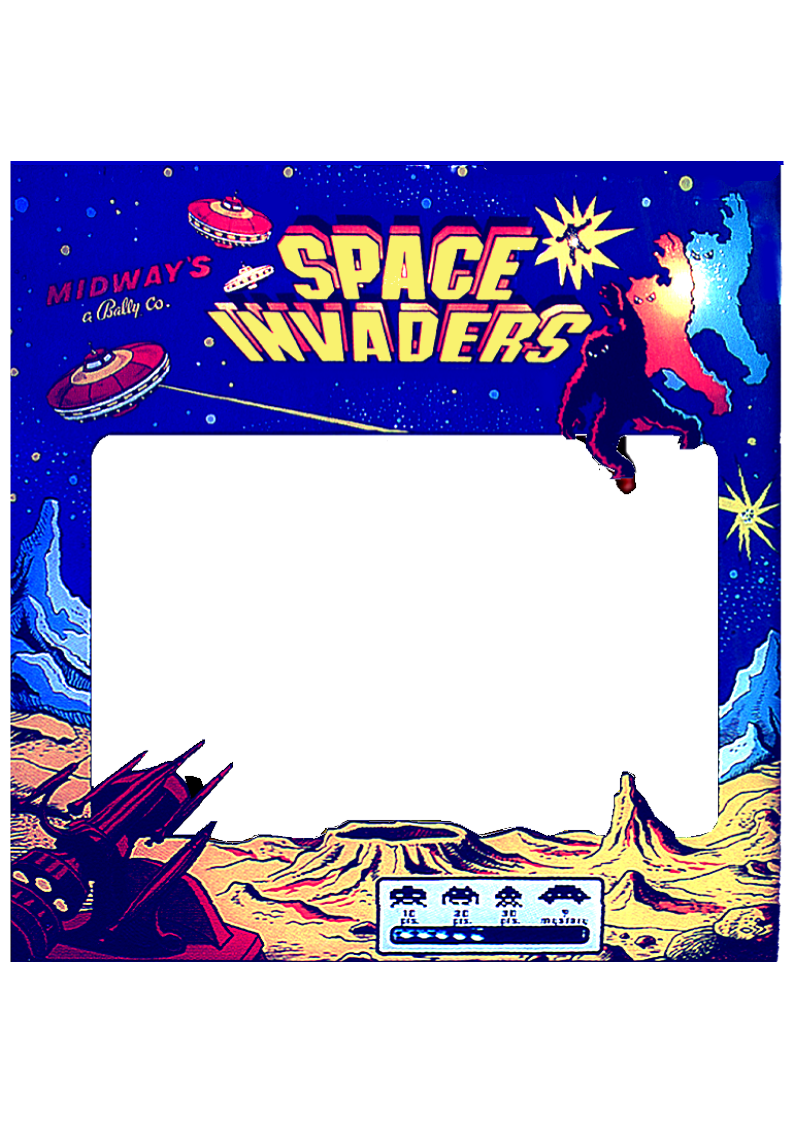
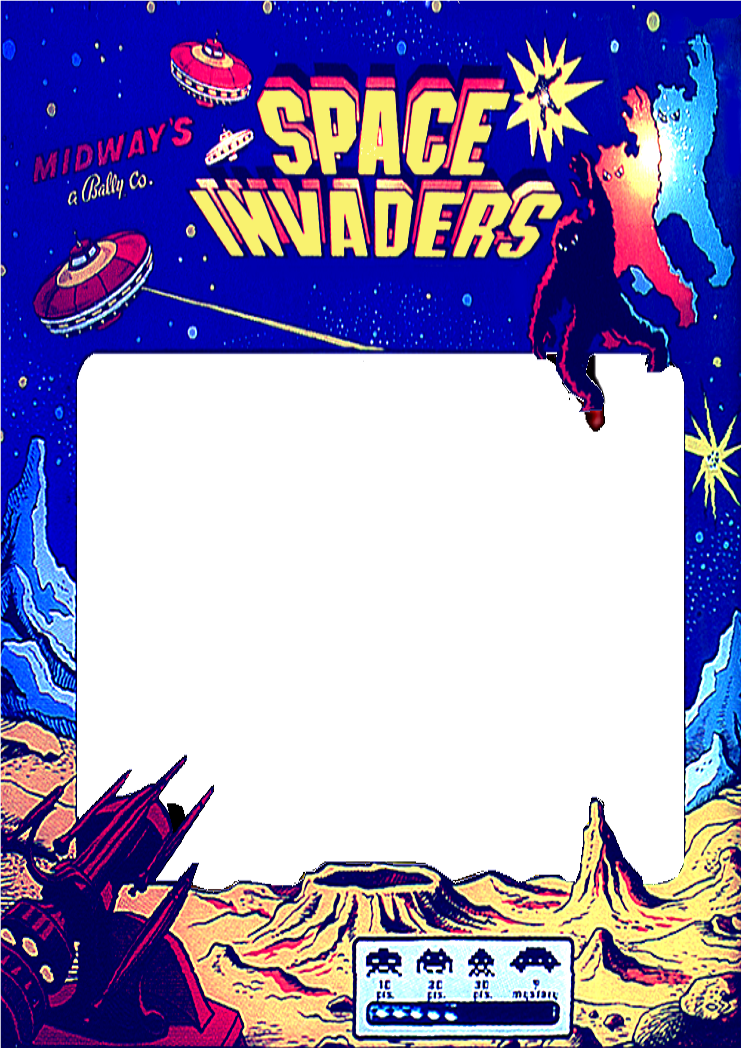
Refactor stlying

diff --git a/style.css b/style.css
@@ -1,28 +1,28 @@
 body {
-  font-family: 'Press Start 2P', cursive;
   background: linear-gradient(#000000,#2716ec);
 }
 .game_cab {
   position: relative;
   margin: auto;
-  width: 50%;
+  width: 47%;
 }
 canvas {
-  background-color: black;
   position: absolute;
-  border: black solid 1px;
-  border-radius: 20px;
-  border-width: 10px 125px;
-  left: 11%;
-  bottom: 25%;
+  left: 10.6%;
+  bottom: 15%;
+
+  background-color: black;
+  padding: 10px 108px;
+  font-family: 'Press Start 2P', cursive;
 }
 img {
+  width: 100%;
   position: relative;
 }
 button {
   position: absolute;
-  left: 48%;
-  bottom: 17%;
+  left: 47%;
+  bottom: 1.5%;
 
   width: 60px;
   height: 60px;

diff --git a/index.html b/index.html
@@ -9,7 +9,7 @@
 <body>
   <div class="game_cab">
     <canvas id="screen" width="310" height="310"></canvas>
-    <img src="images/invadbez.png" alt="space invaders bezel" width="700px" height="890px">
+    <img src="images/invadbez.png" alt="space invaders bezel" width="580px" height="635px">
     <button type="button" id="button"></button>
 
   </div>
